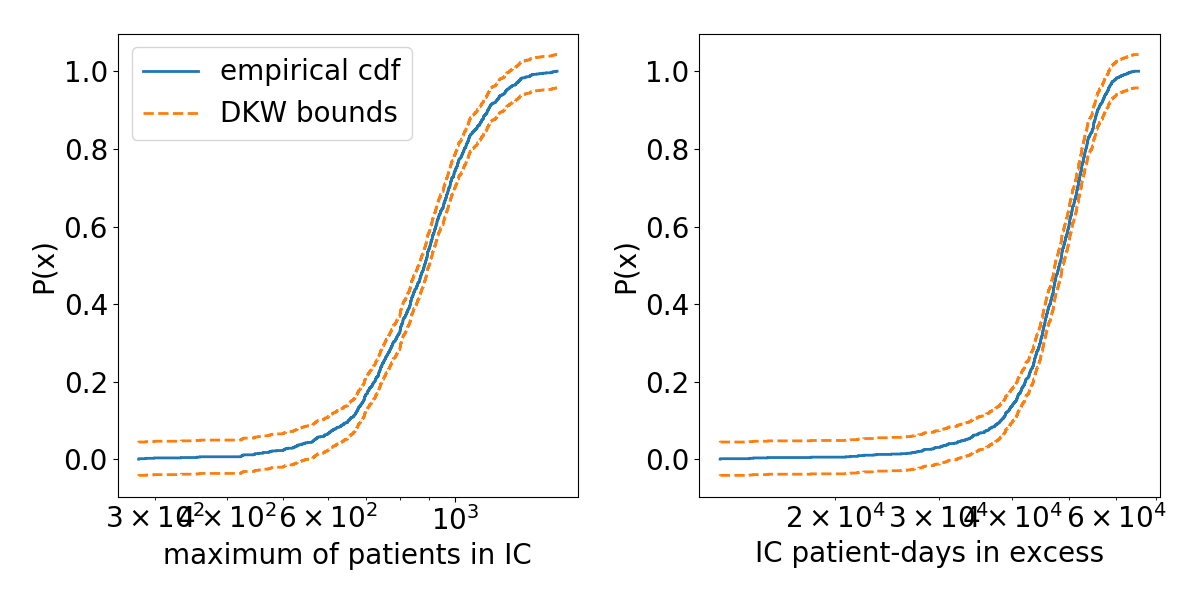
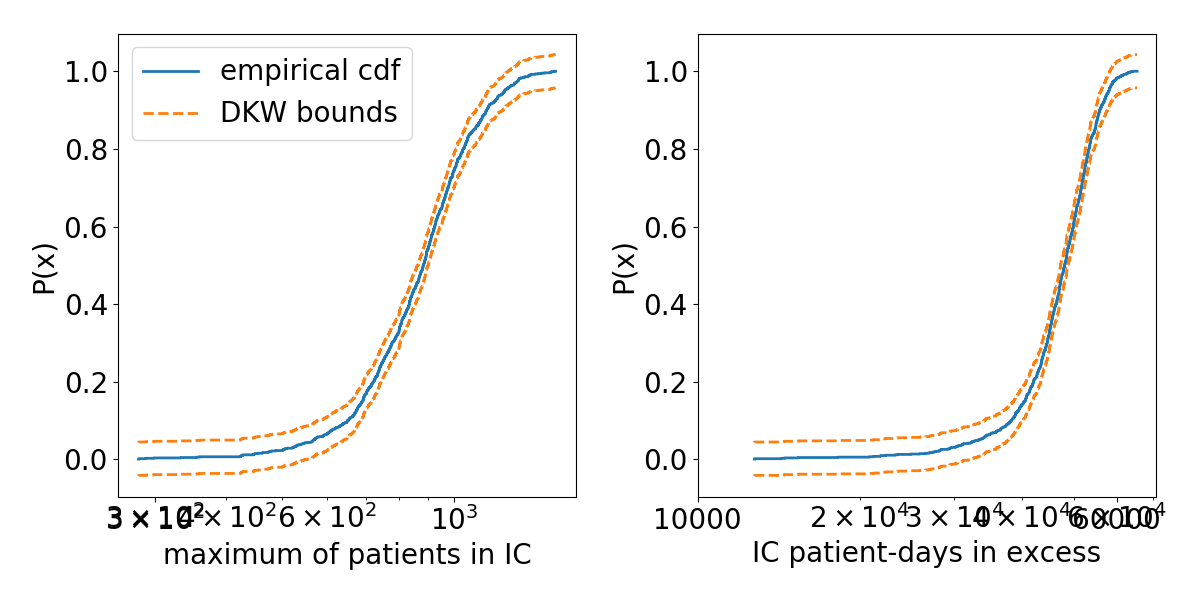
fix ticks on x-axis

diff --git a/EasyVVUQ/cdf_post_proc_corona.py b/EasyVVUQ/cdf_post_proc_corona.py
@@ -9,6 +9,7 @@ import easyvvuq as uq
 import os
 import pandas as pd
 import matplotlib.pyplot as plt
+import matplotlib
 plt.rcParams.update({'font.size': 20})
 plt.rcParams['figure.figsize'] = 8,6
 
@@ -98,7 +99,8 @@ ax_p.step(IC_prev_avg_max,p-eps_DKW,linestyle='--',lw=2,color='tab:orange')
 #ax_p.axvline(x=IC_capacity,color='tab:orange')
 # ax_p.step(IC_prev_avg_max_MC100,p_MC100,lw=2,color='tab:olive',label='MC 100 runs')
 ax_p.set_xscale('log')
-#ax_p.set_xticks([1e2, 1e3])
+ax_p.set_xticks([3e2, 1e3])
+ax_p.get_xaxis().get_major_formatter().labelOnlyBase = False
 
 ax_e = f.add_subplot(122, xlabel='IC patient-days in excess', ylabel='P(x)')
 ax_e.step(IC_ex_max,p,lw=2)
@@ -106,7 +108,8 @@ ax_e.step(IC_ex_max,p+eps_DKW,linestyle='--',lw=2,color='tab:orange')
 ax_e.step(IC_ex_max,p-eps_DKW,linestyle='--',lw=2,color='tab:orange')
 #ax_e.step(IC_ex_max_MC100,p_MC100,lw=2,color='tab:olive')
 ax_e.set_xscale('log')
-#ax_e.set_xticks([1e4])
+ax_e.set_xticks([1e4, 6e4])
+ax_e.get_xaxis().set_major_formatter(matplotlib.ticker.ScalarFormatter())
 
 ax_p.legend(loc='best')
 plt.tight_layout()
